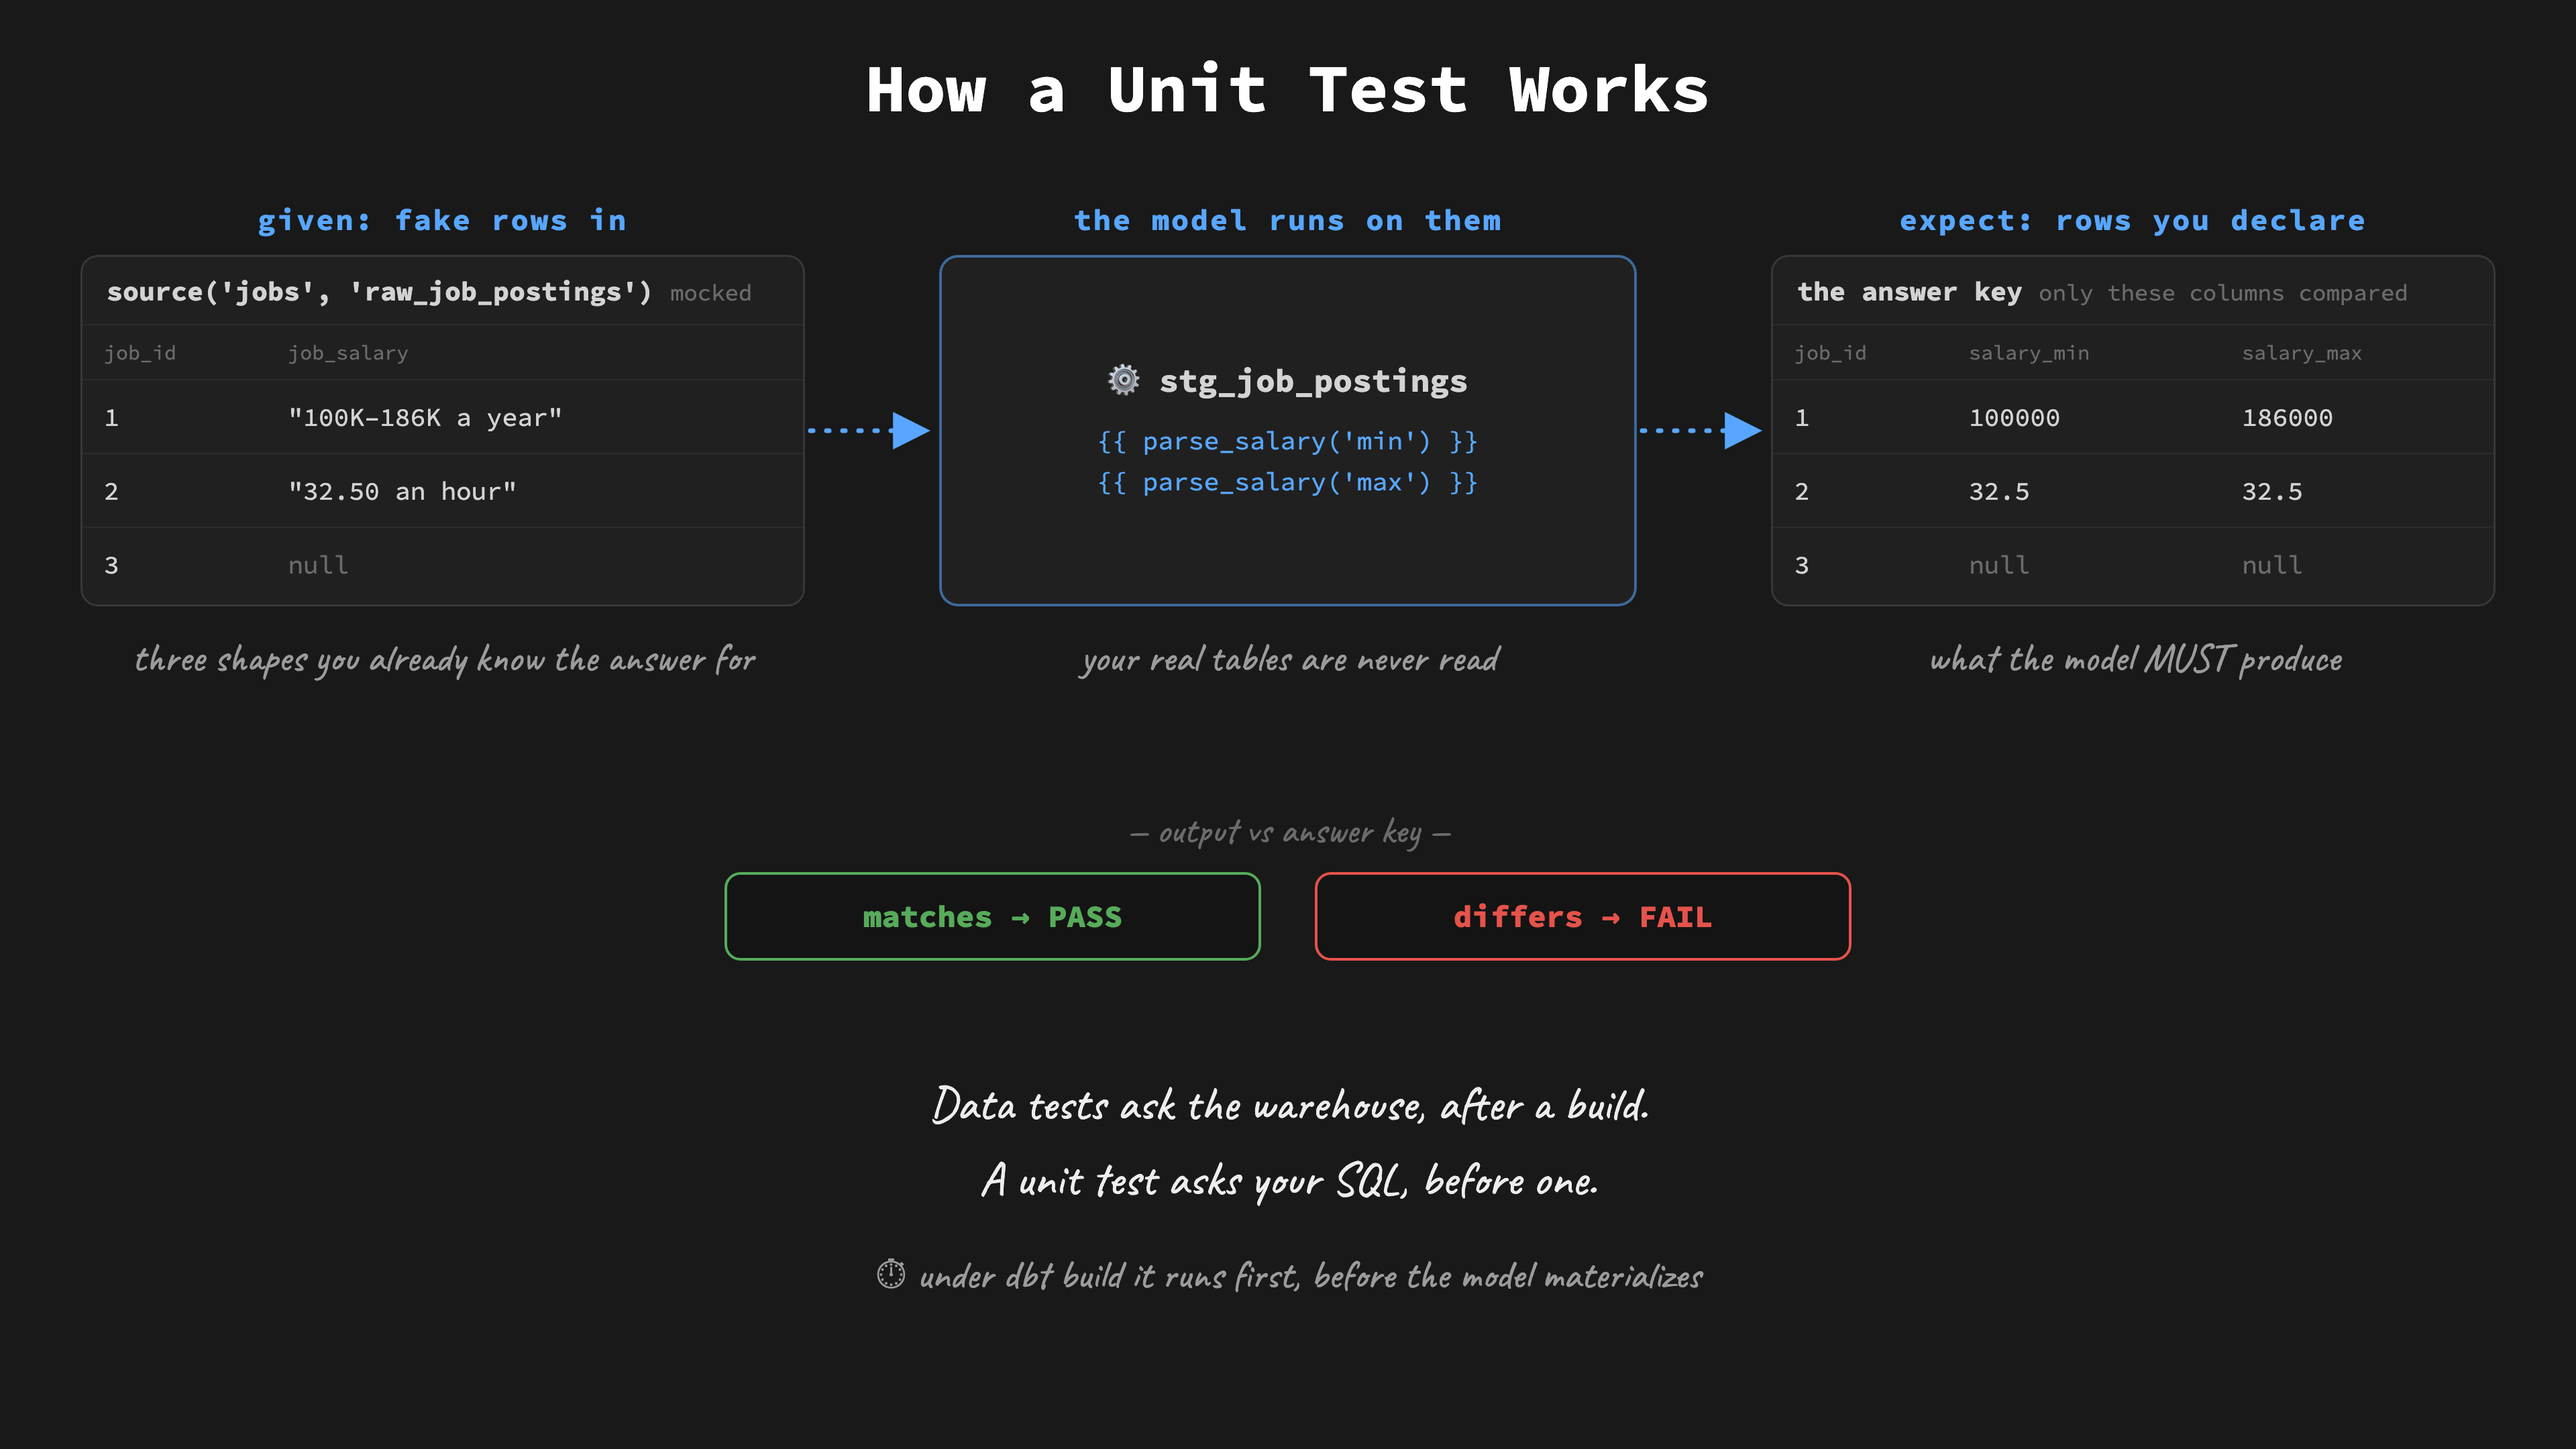
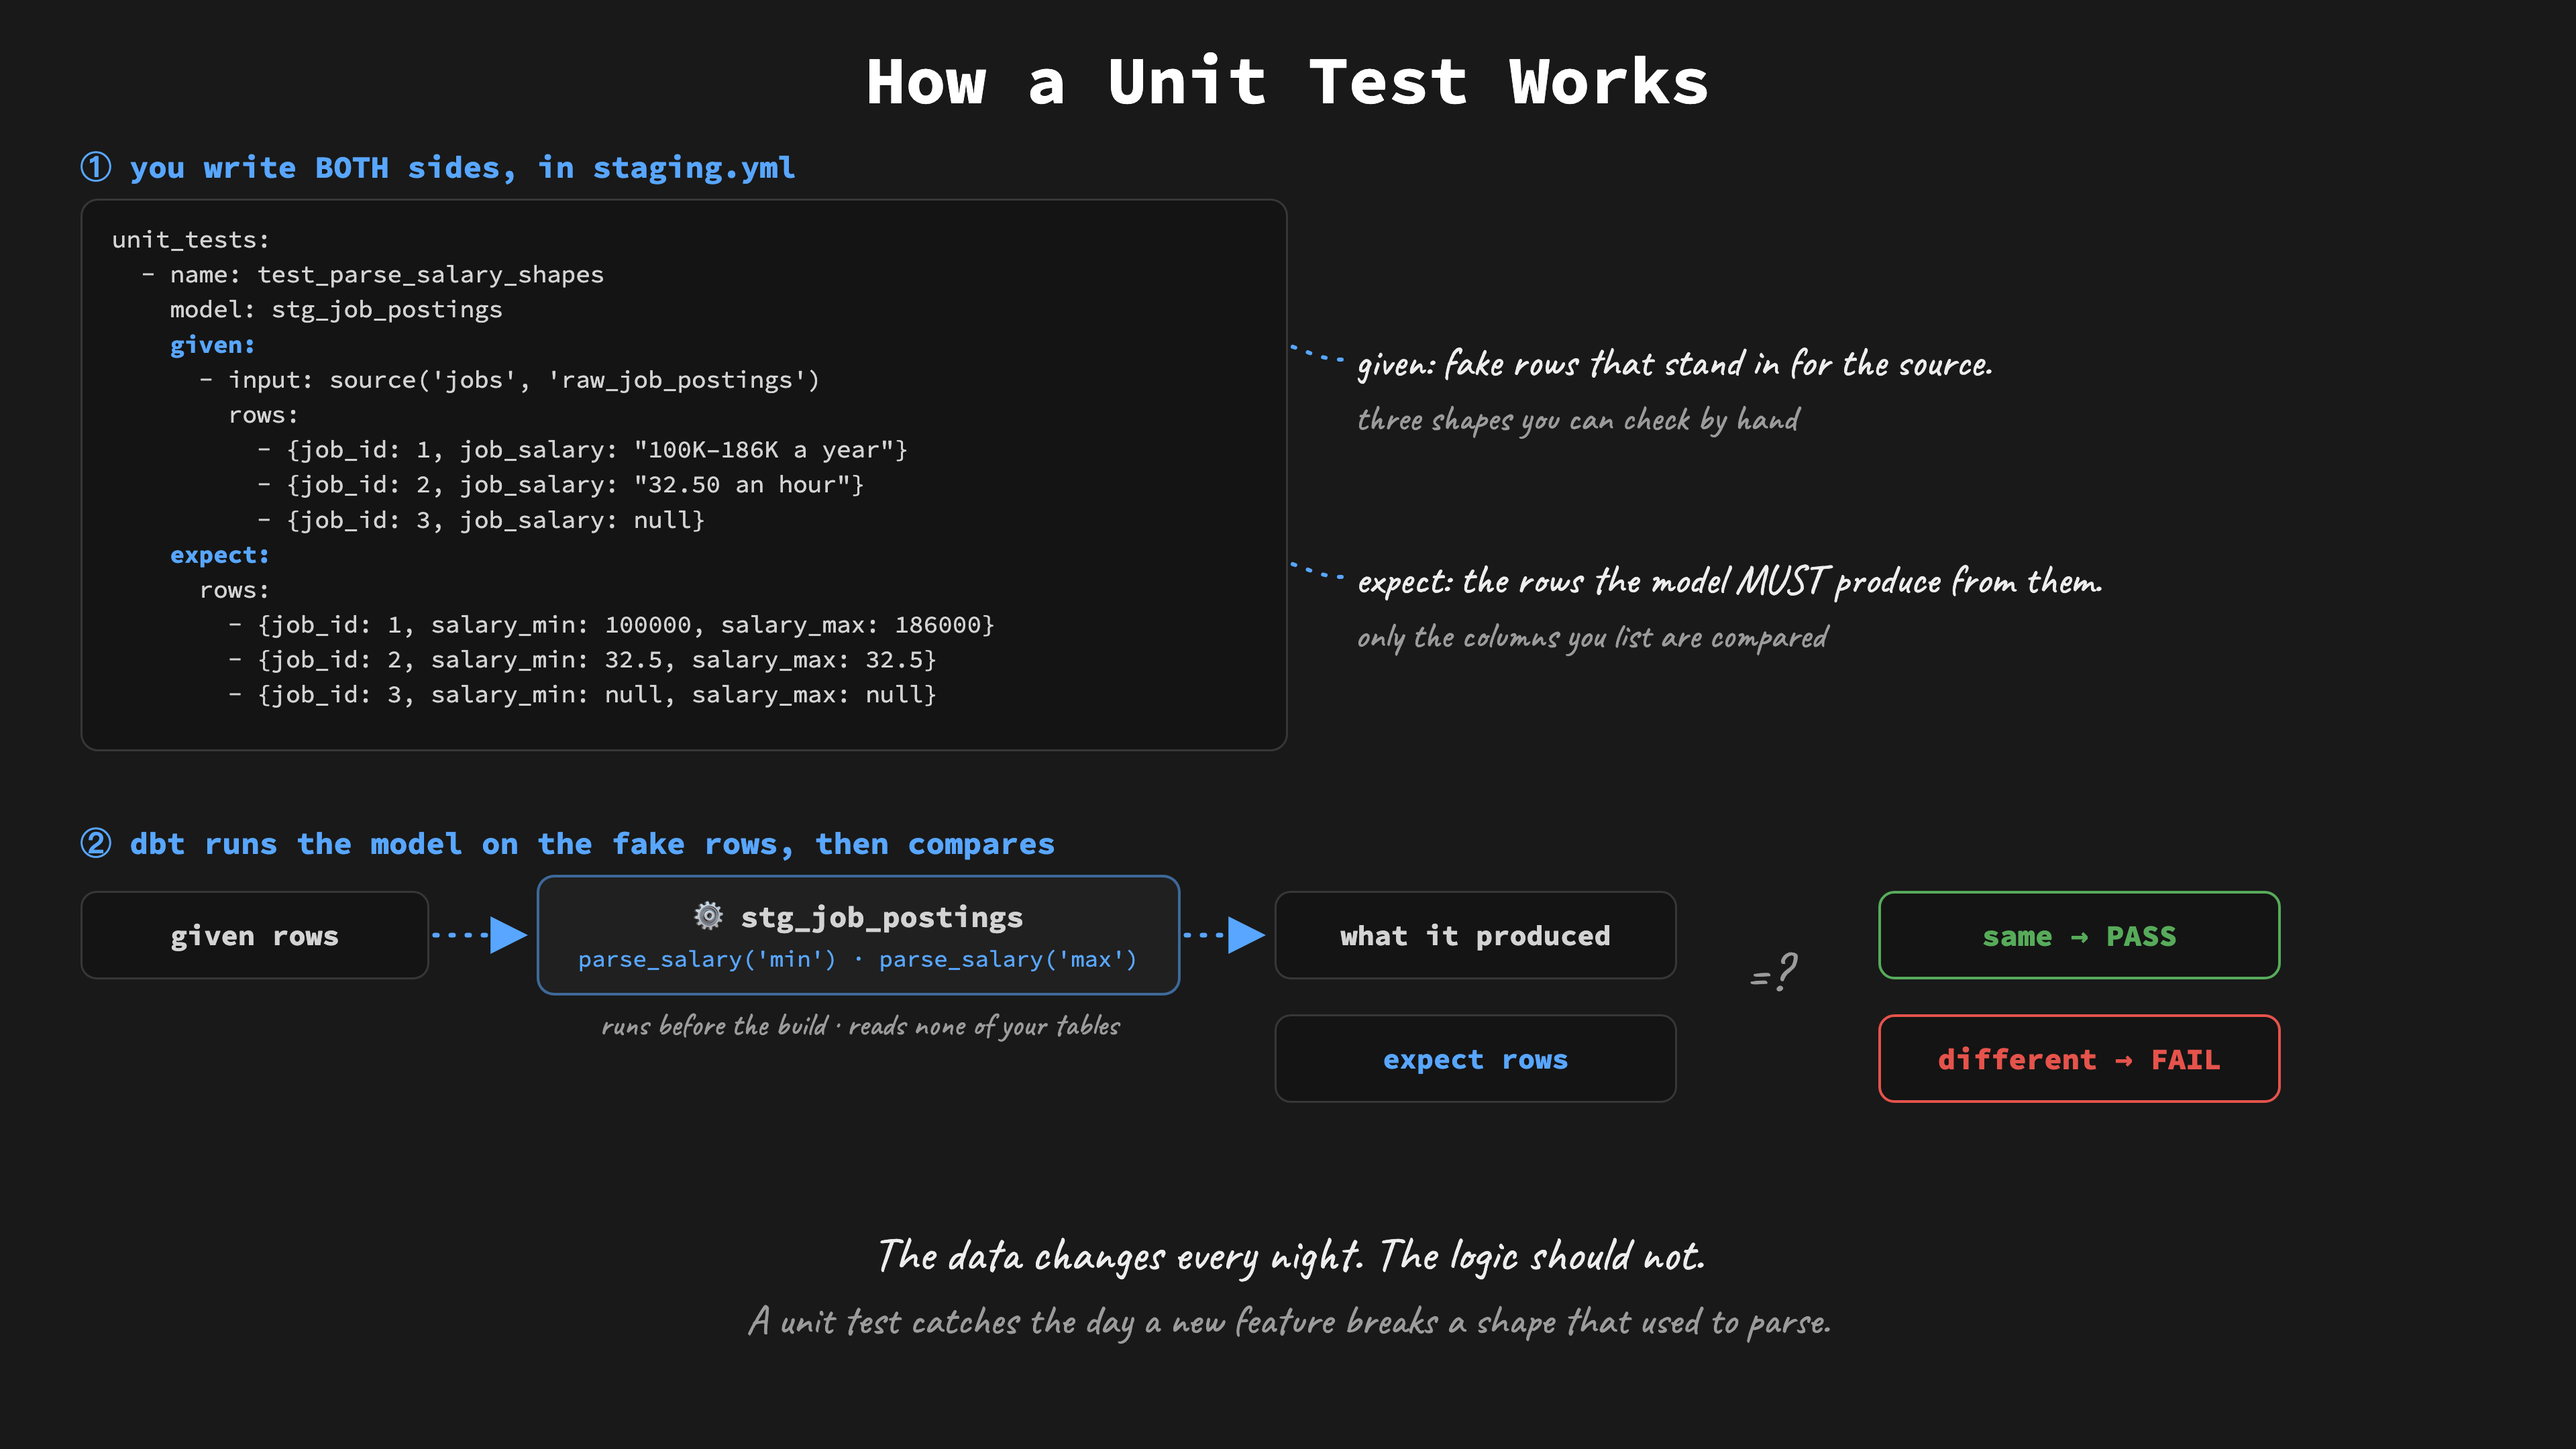
3.09_unit_test v2: YAML first, then the run, regression as the frame (Luke)
Step 1 shows the real unit_tests block from staging.yml with given: and
expect: annotated (you write both sides). Step 2 is the run: given rows
-> the model -> what it produced, compared to expect rows -> PASS/FAIL.
The frame is the point Luke wanted stressed: the data changes every
night, the logic should not; a unit test catches the day a new feature
breaks a shape that used to parse.

diff --git a/resources/diagrams/3.09_unit_test.html b/resources/diagrams/3.09_unit_test.html
@@ -15,19 +15,17 @@
   }
   html,body{margin:0;padding:0;background:var(--bg)}
   .stage{position:relative;width:1920px;height:1080px;overflow:hidden;font-family:var(--hand);color:var(--ink);background:var(--bg)}
-  .title{position:absolute;top:34px;left:0;width:1920px;font-family:var(--mono);font-size:50px;font-weight:700;color:#FFFFFF;text-align:center}
-  .lbl{position:absolute;font-family:var(--mono);font-size:22px;font-weight:700;letter-spacing:.06em;color:var(--blue);text-align:center}
-  .card{position:absolute;box-sizing:border-box;border-radius:13px;background:var(--panel);border:1.5px solid var(--line);overflow:hidden}
-  .ch{font-family:var(--mono);font-size:20px;font-weight:700;color:var(--text);padding:13px 18px;height:50px;box-sizing:border-box}
-  .ch span{font-weight:400;color:var(--faint);font-size:17px}
-  .r{display:flex;font-family:var(--mono);font-size:19px;border-top:1px solid #2b2b2b;height:54px;align-items:center;color:var(--text)}
-  .r span{padding:0 16px}
-  .r.hd{height:40px;color:var(--faint);font-size:15px}
-  .model{position:absolute;box-sizing:border-box;border-radius:14px;background:var(--panel);border:2px solid rgba(88,166,255,.55);display:flex;flex-direction:column;align-items:center;justify-content:center;gap:14px}
-  .model .n{font-family:var(--mono);font-size:24px;font-weight:700;color:var(--text)}
-  .model .m{font-family:var(--mono);font-size:19px;color:var(--blue);line-height:1.6;text-align:center}
-  .hand{position:absolute;font-family:var(--hand);text-align:center;color:var(--muted);font-size:30px;line-height:1.35}
-  .chip{position:absolute;box-sizing:border-box;height:66px;width:400px;border-radius:12px;background:#141414;display:flex;align-items:center;justify-content:center;font-family:var(--mono);font-size:23px;font-weight:800}
+  .title{position:absolute;top:28px;left:0;width:1920px;font-family:var(--mono);font-size:50px;font-weight:700;color:#FFFFFF;text-align:center}
+  .step{position:absolute;font-family:var(--mono);font-size:23px;font-weight:700;color:var(--blue)}
+  .term{position:absolute;box-sizing:border-box;border-radius:13px;background:#141414;border:1.5px solid var(--line);padding:16px 22px}
+  .code{font-family:var(--mono);font-size:18px;line-height:1.45;white-space:pre;color:var(--text)}
+  .hand{position:absolute;font-family:var(--hand);color:var(--ink);font-size:31px;line-height:1.3}
+  .chip{position:absolute;box-sizing:border-box;height:66px;border-radius:12px;background:#141414;border:1.5px solid var(--line);display:flex;align-items:center;justify-content:center;font-family:var(--mono);font-size:21px;font-weight:700;color:var(--text)}
+  .model{position:absolute;box-sizing:border-box;border-radius:13px;background:var(--panel);border:2px solid rgba(88,166,255,.55);display:flex;flex-direction:column;align-items:center;justify-content:center;gap:6px}
+  .model .n{font-family:var(--mono);font-size:22px;font-weight:700;color:var(--text)}
+  .model .m{font-family:var(--mono);font-size:17px;color:var(--blue)}
+  .model .t{font-family:var(--hand);font-size:22px;color:var(--muted)}
+  .verdict{position:absolute;box-sizing:border-box;height:66px;width:300px;border-radius:12px;background:#141414;display:flex;align-items:center;justify-content:center;font-family:var(--mono);font-size:22px;font-weight:800}
   .rule{position:absolute;left:0;width:1920px;text-align:center;font-family:var(--hand);font-size:36px;color:var(--ink)}
   svg.art{position:absolute;inset:0;pointer-events:none}
 </style>
@@ -37,51 +35,49 @@
 
   <div class="title">How a Unit Test Works</div>
 
-  <!-- given -->
-  <div class="lbl" style="left:60px;top:150px;width:540px">given:  fake rows in</div>
-  <div class="card" style="left:60px;top:190px;width:540px;height:262px">
-    <div class="ch">source('jobs', 'raw_job_postings') <span>mocked</span></div>
-    <div class="r hd"><span style="width:120px">job_id</span><span style="width:420px">job_salary</span></div>
-    <div class="r"><span style="width:120px">1</span><span style="width:420px">"100K–186K a year"</span></div>
-    <div class="r"><span style="width:120px">2</span><span style="width:420px">"32.50 an hour"</span></div>
-    <div class="r"><span style="width:120px">3</span><span style="width:420px;color:var(--faint)">null</span></div>
+  <!-- ① the YAML: both sides -->
+  <div class="step" style="left:60px;top:108px">① you write BOTH sides, in staging.yml</div>
+  <div class="term" style="left:60px;top:148px;width:900px;height:412px">
+<div class="code">unit_tests:
+  - name: test_parse_salary_shapes
+    model: stg_job_postings
+    <span style="color:var(--blue);font-weight:700">given:</span>
+      - input: source('jobs', 'raw_job_postings')
+        rows:
+          - {job_id: 1, job_salary: "100K–186K a year"}
+          - {job_id: 2, job_salary: "32.50 an hour"}
+          - {job_id: 3, job_salary: null}
+    <span style="color:var(--blue);font-weight:700">expect:</span>
+      rows:
+        - {job_id: 1, salary_min: 100000, salary_max: 186000}
+        - {job_id: 2, salary_min: 32.5, salary_max: 32.5}
+        - {job_id: 3, salary_min: null, salary_max: null}</div>
   </div>
-  <div class="hand" style="left:60px;top:470px;width:540px">three shapes you already know the answer for</div>
+  <div class="hand" style="left:1010px;top:250px;width:840px">given: fake rows that stand in for the source.<br><span style="color:var(--muted);font-size:27px">three shapes you can check by hand</span></div>
+  <div class="hand" style="left:1010px;top:412px;width:840px">expect: the rows the model MUST produce from them.<br><span style="color:var(--muted);font-size:27px">only the columns you list are compared</span></div>
 
-  <!-- model -->
-  <div class="lbl" style="left:700px;top:150px;width:520px">the model runs on them</div>
-  <div class="model" style="left:700px;top:190px;width:520px;height:262px">
-    <div class="n">⚙ stg_job_postings</div>
-    <div class="m">{{ parse_salary('min') }}<br>{{ parse_salary('max') }}</div>
-  </div>
-  <div class="hand" style="left:700px;top:470px;width:520px">your real tables are never read</div>
+  <!-- ② the run -->
+  <div class="step" style="left:60px;top:612px">② dbt runs the model on the fake rows, then compares</div>
+  <div class="chip" style="left:60px;top:664px;width:260px">given rows</div>
+  <div class="model" style="left:400px;top:652px;width:480px;height:90px"><div class="n">⚙ stg_job_postings</div><div class="m">parse_salary('min')  ·  parse_salary('max')</div></div>
+  <div class="hand" style="left:400px;top:748px;width:480px;font-size:24px;color:var(--muted);text-align:center">runs before the build · reads none of your tables</div>
+  <div class="chip" style="left:950px;top:664px;width:300px">what it produced</div>
+  <div class="chip" style="left:950px;top:756px;width:300px;color:var(--blue)">expect rows</div>
+  <div class="hand" style="left:1262px;top:700px;width:110px;font-size:40px;text-align:center;color:var(--muted)">=?</div>
+  <div class="verdict" style="left:1400px;top:664px;border:2px solid var(--ok);color:var(--ok)">same  →  PASS</div>
+  <div class="verdict" style="left:1400px;top:756px;border:2px solid var(--err);color:var(--err)">different  →  FAIL</div>
 
-  <!-- expect -->
-  <div class="lbl" style="left:1320px;top:150px;width:540px">expect:  rows you declare</div>
-  <div class="card" style="left:1320px;top:190px;width:540px;height:262px">
-    <div class="ch">the answer key <span>only these columns compared</span></div>
-    <div class="r hd"><span style="width:120px">job_id</span><span style="width:210px">salary_min</span><span style="width:210px">salary_max</span></div>
-    <div class="r"><span style="width:120px">1</span><span style="width:210px">100000</span><span style="width:210px">186000</span></div>
-    <div class="r"><span style="width:120px">2</span><span style="width:210px">32.5</span><span style="width:210px">32.5</span></div>
-    <div class="r"><span style="width:120px">3</span><span style="width:210px;color:var(--faint)">null</span><span style="width:210px;color:var(--faint)">null</span></div>
-  </div>
-  <div class="hand" style="left:1320px;top:470px;width:540px">what the model MUST produce</div>
-
-  <!-- verdict -->
-  <div class="hand" style="left:0;top:600px;width:1920px;font-size:28px;color:var(--faint)">— output vs answer key —</div>
-  <div class="chip" style="left:540px;top:650px;border:2px solid var(--ok);color:var(--ok)">matches  →  PASS</div>
-  <div class="chip" style="left:980px;top:650px;border:2px solid var(--err);color:var(--err)">differs  →  FAIL</div>
-
-  <div class="rule" style="top:800px">Data tests ask the warehouse, after a build.</div>
-  <div class="rule" style="top:856px">A unit test asks your SQL, before one.</div>
-  <div class="hand" style="left:0;top:930px;width:1920px;font-size:30px">⏱ under dbt build it runs first, before the model materializes</div>
+  <!-- the point -->
+  <div class="rule" style="top:912px">The data changes every night. The logic should not.</div>
+  <div class="rule" style="top:964px;color:var(--muted);font-size:31px">A unit test catches the day a new feature breaks a shape that used to parse.</div>
 
   <svg class="art" viewBox="0 0 1920 1080">
-    <defs>
-      <marker id="ab" viewBox="0 0 10 10" refX="8" refY="5" markerWidth="8" markerHeight="8" orient="auto-start-reverse"><path d="M 0 0 L 10 5 L 0 10 z" fill="#58A6FF"/></marker>
-    </defs>
-    <line x1="604" y1="321" x2="688" y2="321" stroke="#58A6FF" stroke-width="3.5" stroke-dasharray="2 10" stroke-linecap="round" marker-end="url(#ab)"/>
-    <line x1="1224" y1="321" x2="1308" y2="321" stroke="#58A6FF" stroke-width="3.5" stroke-dasharray="2 10" stroke-linecap="round" marker-end="url(#ab)"/>
+    <defs><marker id="ab" viewBox="0 0 10 10" refX="8" refY="5" markerWidth="8" markerHeight="8" orient="auto-start-reverse"><path d="M 0 0 L 10 5 L 0 10 z" fill="#58A6FF"/></marker></defs>
+    <line x1="324" y1="697" x2="388" y2="697" stroke="#58A6FF" stroke-width="3.5" stroke-dasharray="2 10" stroke-linecap="round" marker-end="url(#ab)"/>
+    <line x1="884" y1="697" x2="938" y2="697" stroke="#58A6FF" stroke-width="3.5" stroke-dasharray="2 10" stroke-linecap="round" marker-end="url(#ab)"/>
+    <line x1="964" y1="262" x2="964" y2="262" stroke="none"/>
+    <path d="M 1000 268 C 985 268, 975 262, 962 258" fill="none" stroke="#58A6FF" stroke-width="3" stroke-dasharray="2 10" stroke-linecap="round"/>
+    <path d="M 1000 430 C 985 430, 975 424, 962 420" fill="none" stroke="#58A6FF" stroke-width="3" stroke-dasharray="2 10" stroke-linecap="round"/>
   </svg>
 
 </div>
